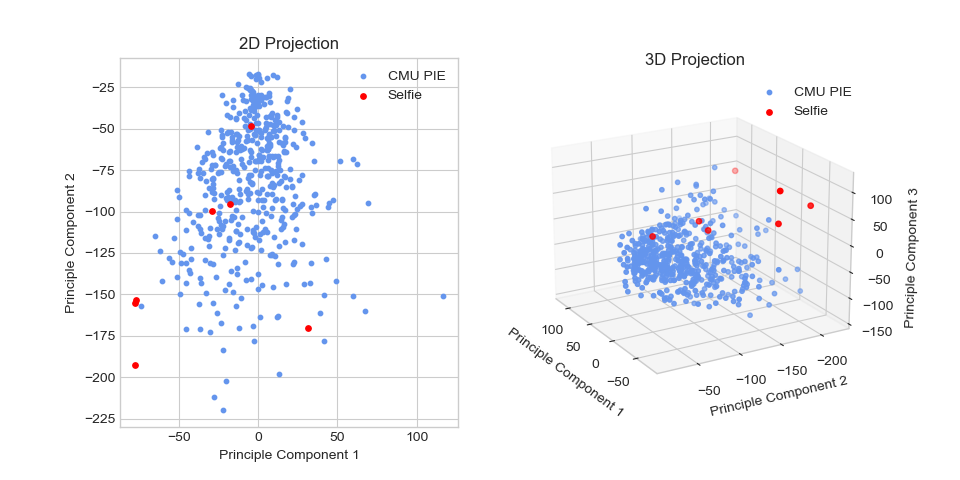
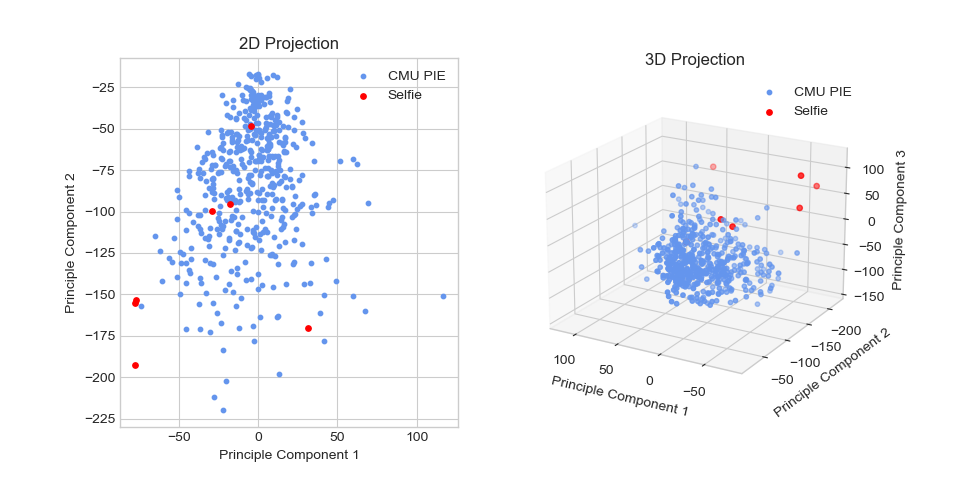
Update the LDA.py and draw.py adjusting 3d angles.

Changed region(s): [[0.5312, 0.2812, 0.9688, 0.875]]

diff --git a/src/draw.py b/src/draw.py
@@ -114,8 +114,10 @@ def draw_ProjectedData(reduced_2d, reduced_3d, new_labels, selfie_label=25, save
     ax.set_ylabel('Principle Component 2')
     ax.set_zlabel('Principle Component 3')
     ax.set_title('3D Projection')
-    ax.view_init(azim=150, elev=20)
-    # ax.view_init(azim=200, elev=30)
+    if name == 'LDA':
+        ax.view_init(azim=120, elev=20)  # LDA
+    elif name == 'PCA':
+        ax.view_init(azim=150, elev=20)  # PCA
     ax.legend()
     plt.show()
     if save_fig:
@@ -137,8 +139,8 @@ def draw_accuracy_curve(x, accu_mat: np.array, save_fig=False, file_name=None):
     ax.legend(loc='best')
     ax.set_title('{} Accuracy Curve in Testing Set'.format(file_name))
     for i, (xi, yi1, yi2) in enumerate(zip(x, 100 * accu_mat[1, :], 100 * accu_mat[0, :])):
-        ax.text(xi, yi1-5, '{:.2f}%'.format(yi1), ha='center', va='bottom', color='cornflowerblue')  # -3.5
-        ax.text(xi, yi2+2, '{:.2f}%'.format(yi2), ha='center', va='top', color='r')  # +2
+        ax.text(xi, yi1 - 5, '{:.2f}%'.format(yi1), ha='center', va='bottom', color='cornflowerblue')  # -3.5
+        ax.text(xi, yi2 + 2, '{:.2f}%'.format(yi2), ha='center', va='top', color='r')  # +2
     plt.show()
     if save_fig:
         fig.savefig(output_fig_dir + '{0}: Accuracy_Curve.png'.format(file_name))

diff --git a/src/LDA.py b/src/LDA.py
@@ -111,4 +111,4 @@ if __name__ == "__main__":
     draw_ProjectedData(proj_2d_3d[0], proj_2d_3d[1], new_labels=y_train,
                        selfie_label=selfie_label, save_fig=save, name='LDA')
     # Draw the accuracy curve
-    # draw_accuracy_curve(x=dimension_list, accu_mat=accu, save_fig=False, file_name='LDA & KNN')
+    draw_accuracy_curve(x=dimension_list, accu_mat=accu, save_fig=False, file_name='LDA & KNN')
